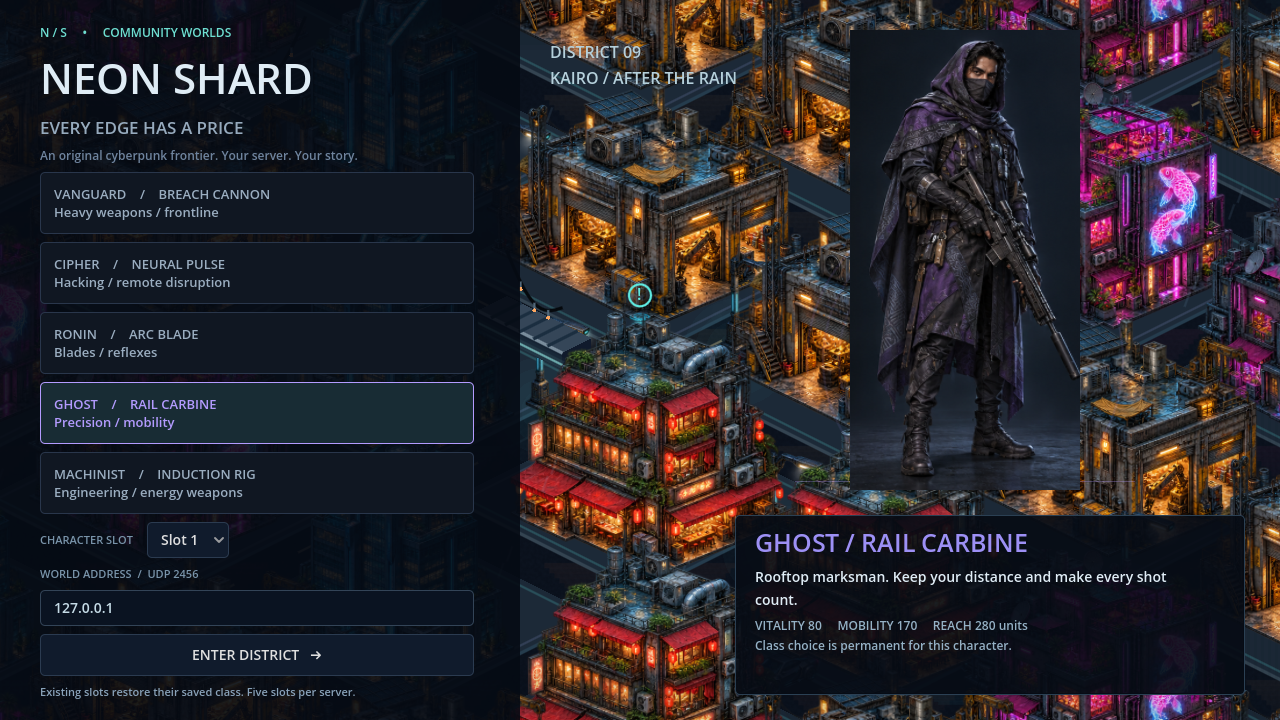
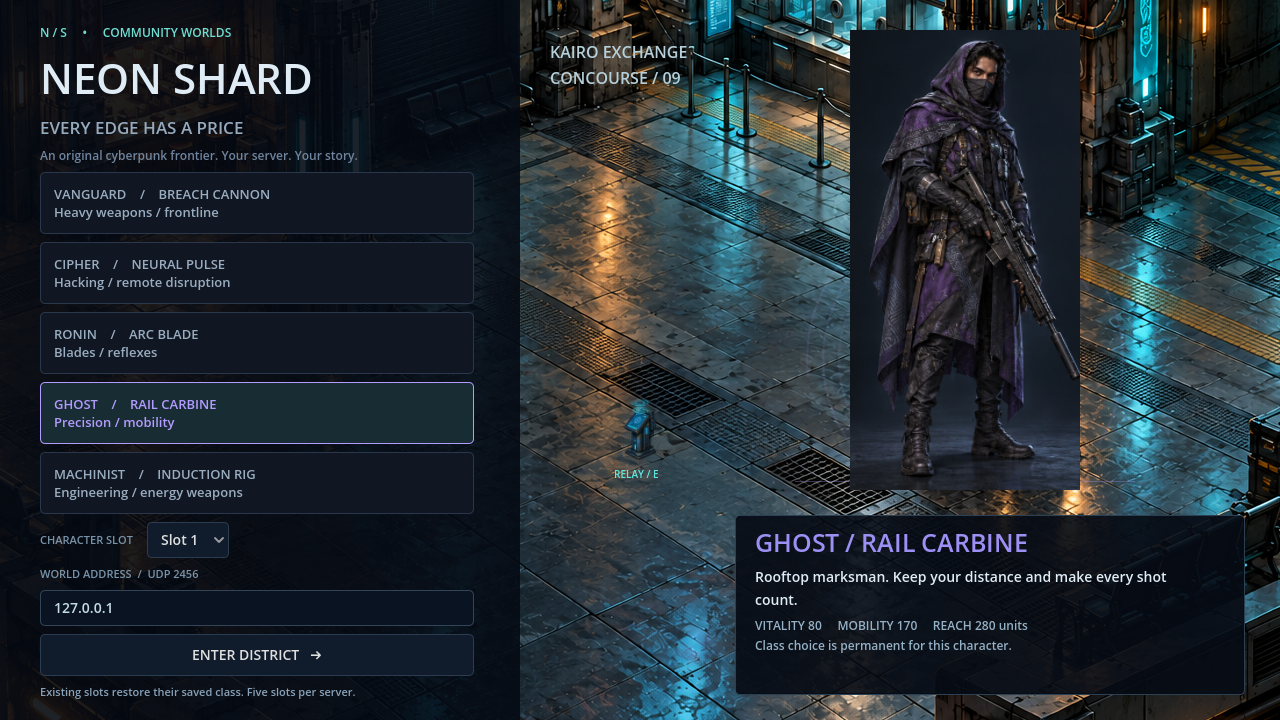
Show playable cutaway concourse replacing repeated rooftops

diff --git a/docs/screenshots/README.md b/docs/screenshots/README.md
@@ -1,37 +1,49 @@
-# Neon Shard · enclosed city
+# Neon Shard · Kairo Exchange interior
 
-The city now fills the view with dense buildings and narrow streets. The broad open plaza has become a compact relay intersection, with skybridges and hanging service cables above the routes. Buildings continue beyond the playable boundary rather than exposing an empty edge.
+The active area is now **one continuous cutaway transit hall**, with characters walking inside connected architecture. It replaces the repeated full-building layout with an authored floor, surrounding walls, recessed counters, structural columns, and foreground railings.
 
-These are **actual Godot renders** of a staged scene, not standalone concept images or a live multiplayer session.
+These are actual Godot renders with dynamic game actors. They are staged visual captures; real multiplayer combat and persistence were tested separately.
 
-## Enclosed relay district
+## Inside the concourse
 
-![Enclosed city](city.png)
+![Playable transit hall](interior.png)
 
-[Open full-size city image](city.png) · [Effects reduced](city-low.png)
+[Open the full-size interior image](interior.png) · [Added effects reduced](interior-low.png)
 
-## Street and boundary views
+## Approaching the counter
 
-![Alley view](city-alley.png)
+![Character near the counter](interior-counter.png)
 
-[Open full-size alley image](city-alley.png)
+[Open counter view](interior-counter.png)
 
-![City at the playable boundary](city-edge.png)
+## Connected room architecture
 
-[Open full-size boundary image](city-edge.png)
+![Doorway and transit windows](interior-doorway.png)
 
-## Character selection
+[Open doorway view](interior-doorway.png)
+
+## Foreground depth
+
+![Character behind a support column](interior-occlusion.png)
+
+[Open column occlusion view](interior-occlusion.png)
+
+Column footprints block movement and attacks. Their silhouettes are depth sorted with actors and partially fade over the local player when needed. The room camera stays within the artwork boundaries. Characters have foot shadows and move on the registered floor, rather than across an aerial view of roofs.
+
+## Class selection
 
 ![Character selection](character-selection.png)
 
 [Vanguard](class-vanguard.png) · [Cipher](class-cipher.png) · [Ronin](class-ronin.png) · [Ghost](class-ghost.png) · [Machinist](class-machinist.png)
 
-## Compare earlier layouts
+## Previous layouts
 
-[Previous open layout with the same art](city-open-layout.png) · [Original city](city-before.png) · [Original character selection](character-selection-before.png)
+[Previous repeated rooftop layout](city-rooftop-layout.png) · [Earlier open layout](city-open-layout.png) · [Original city](city-before.png)
 
-Movement collision, street navigation, enemy pursuit, blocked attack sightlines, and saved-position migration were checked. Multiplayer combat, character slots and restart persistence passed the integration test in this enclosed layout.
+## Current scope
 
-The art is generated and integrated as 2D texture atlases. Overhead bridges are visual structures, not playable upper floors. Interiors, directional animation and crowds remain future work. These screenshots are not a hardware performance benchmark.
+This is one playable interior, using an original generated room painting, registered collision geometry, and dynamic characters/enemies. It is not 3D geometry or a completed connected city. Shops and doorways are environmental set dressing until interactions and room transitions are added. Directional sprite animation and crowds remain future work.
 
-This branch publishes the gallery for review; the development project remains in the working environment.
+Room collision, navigation around columns, enemy pursuit, blocked attacks, old-save relocation and camera bounds passed their checks. The real two-client integration test also passed movement, combat, mission rewards, character-slot persistence and server restart restoration.
+
+The screenshots are not a hardware performance benchmark. This preview branch publishes the gallery; development source remains in the working environment.
